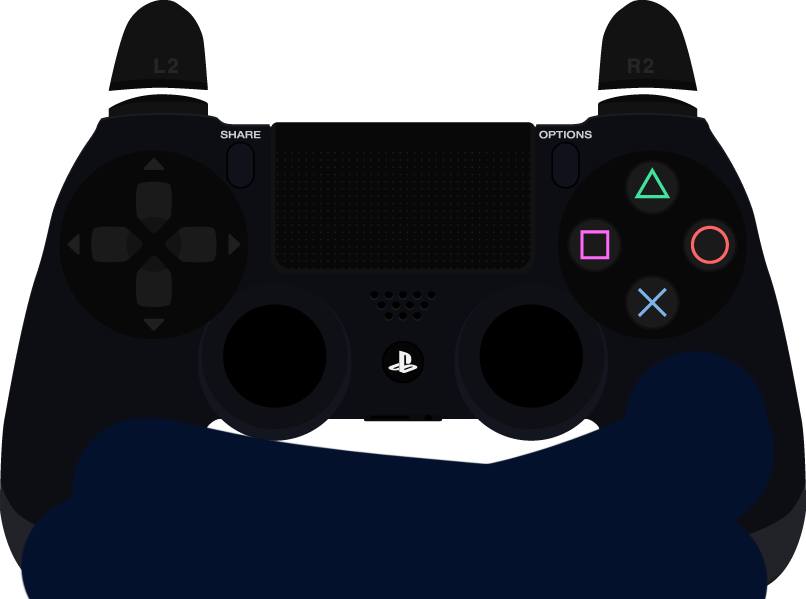
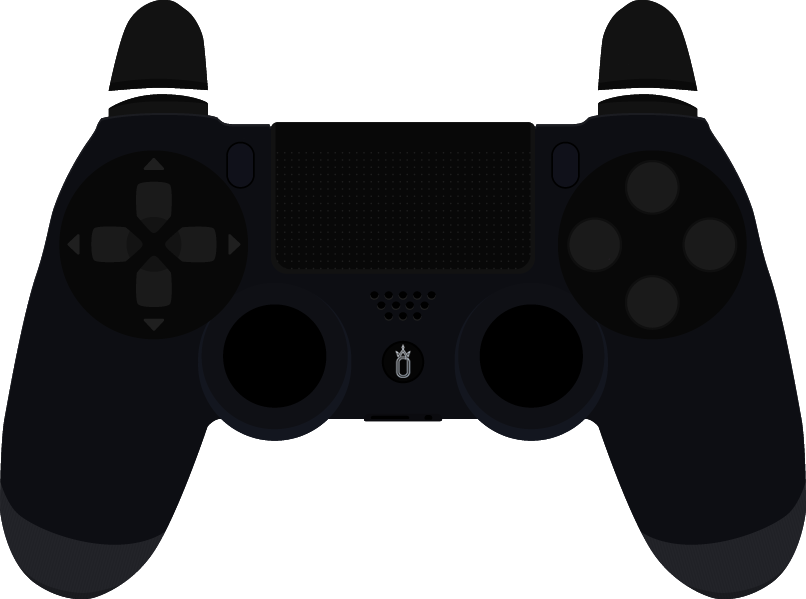
Add files via upload

diff --git a/style.css b/style.css
@@ -25,7 +25,7 @@
 .ds4 .trigger {
     width: 99px;
     height: 100%;
-    background: url(triggers.svgz);
+    background: url(triggers.png);
     opacity: 0;
 }
 
@@ -157,7 +157,7 @@ background-position: 0 -70px;
     position: absolute;
     width: 55px;
     height: 55px;
-    background: url(face.svgz);
+    background: url(face.png);
 }
 
 .ds4 .button.pressed {
